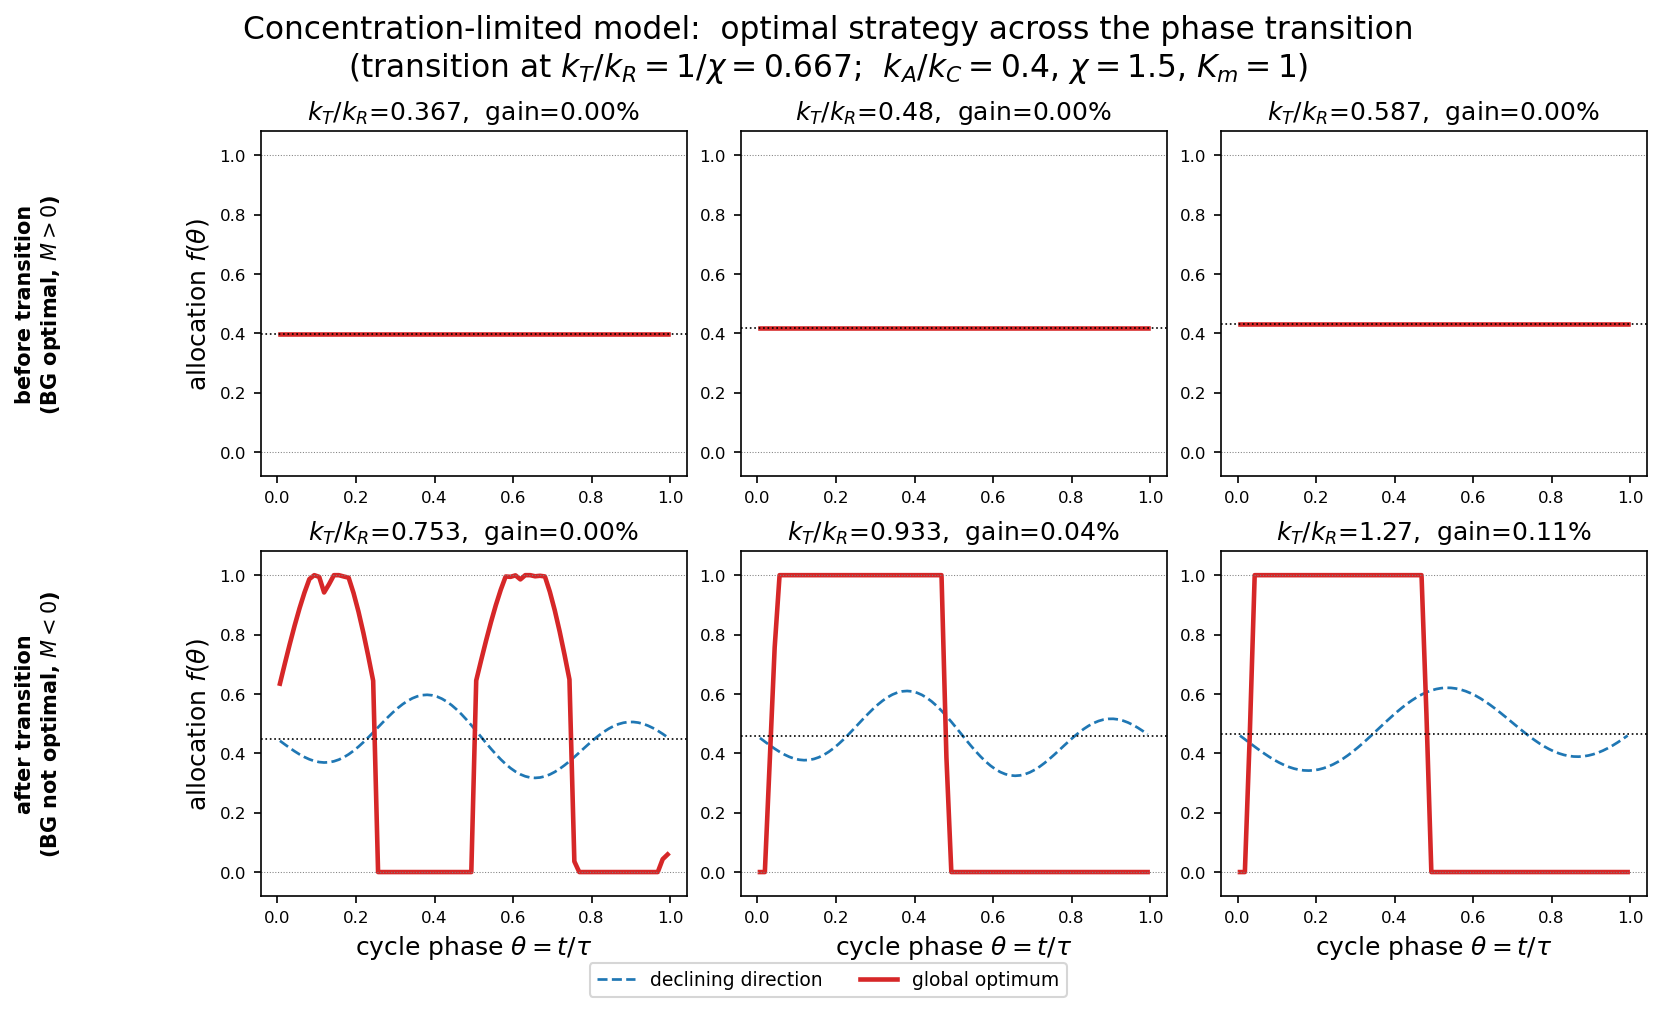
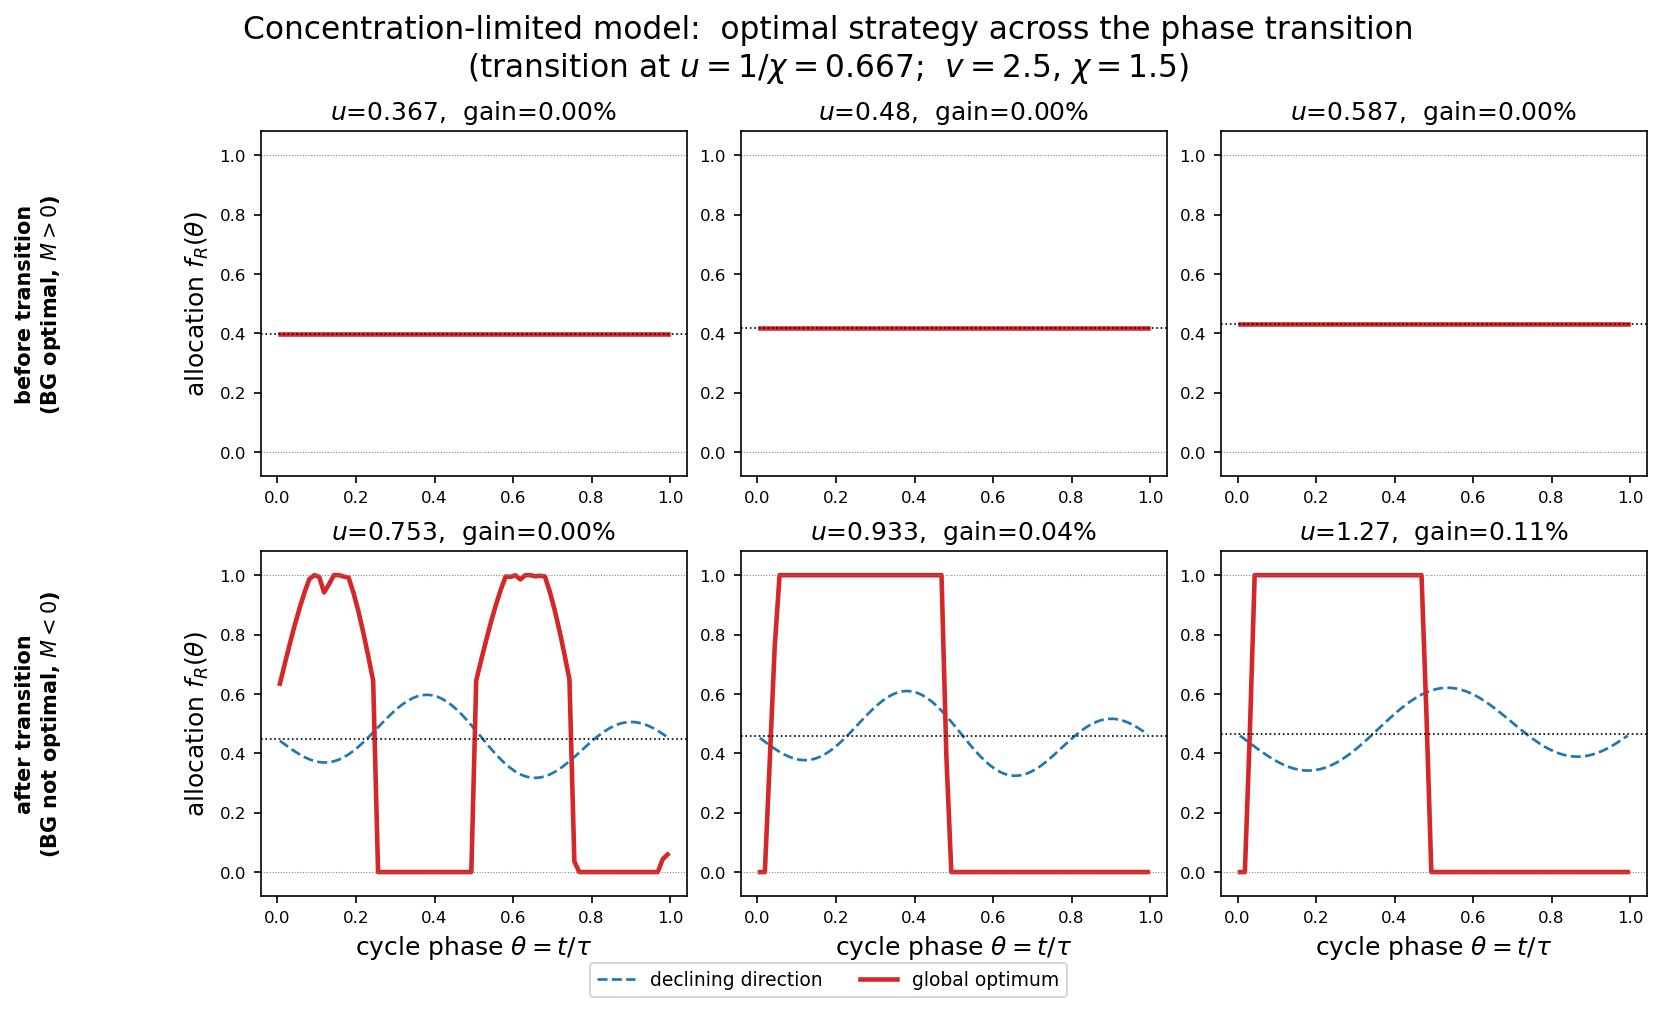
Update thesis code contents

diff --git a/Thesis_code/Scripts/phase_transition_three_models.py b/Thesis_code/Scripts/phase_transition_three_models.py
@@ -12,19 +12,18 @@ q = T/R, z = A/R, u = k_T/k_R, v = k_C/k_A, control f = f_R:
     z' = q - phi(q,z) ( u/v + f z )
     (R'/R) = f phi(q,z)                    (=> doubling rate lambda = f phi)
 
-The three models differ only in the saturation factor phi (chi couples the
-transporter contribution to the effective volume):
+The three models differ only in the saturation factor phi (Sec. 3.4):
 
   * MM      Michaelis-Menten          phi = z / ( z + kappa (1 + chi u q) )
-                transition at  chi u = 1                        (Sec. 3.3)
+                transition at  chi u = 1                       
   * modMM   modified MM coefficient    phi = z / ( z + delta + kappa (1 + chi u q) )
-                transition at  K_m = 1 / (chi u - 1)            (Sec. 3.5.1)
+                transition at  K_m = 1 / (chi u - 1)           
   * conc    concentration limited      phi = z / ( 1 + chi u q )
-                transition at  chi u = 1                        (Sec. 3.5.2)
+                transition at  chi u = 1                        
 
 BG optimality is governed by the reduced second variation
 delta^2 tau[y] = int ( M ydot^2 + N y^2 ) dt.  N > 0 throughout, so BG loses
-optimality exactly where M changes sign -- the phase transition.
+optimality exactly where M changes sign - the phase transition.
 
 For each model the script
   1. fixes  k_A/k_C = 1/v  and  chi  (and, for modMM, k_T/k_R = u), then locates
@@ -33,8 +32,8 @@ For each model the script
         modMM    : sweep K_m           (transition K_m* = 1/(chi u - 1))
   2. picks 3 values before the transition (M>0, BG optimal) and 3 after (M<0);
   3. runs a full piecewise-constant optimal-control search at each value;
-  4. draws a 2x3 grid of the optimal strategy f(theta) -- top row before the
-     transition, bottom row after -- one figure per model.
+  4. draws a 2x3 grid of the optimal strategy f(theta) - top row before the
+     transition, bottom row after - one figure per model.
 
 Run  `python phase_transition_three_models.py probe`  to print only the M-sweep
 tables and located transitions (fast; no optimal-control search).
@@ -62,7 +61,6 @@ def phi_derivs(model, q, z, P):
     """Return (S, Sq, Sz) = (phi, dphi/dq, dphi/dz) for the chosen model.
 
     All three share phi = z / D and differ only in the denominator D.
-    The transporter/ribosome speed ratio enters as  chi*u  multiplying q.
     """
     u, chi, Km, delta = P[IU], P[ICHI], P[IKM], P[IDEL]
     xu = chi * u
@@ -104,7 +102,7 @@ def lam_fun(model, q, z, f, P):
 
 # ============================================================
 # 1. First-order (linearization) coefficients at a BG point
-#    -- exactly the reduced coefficients of Section 3.2.
+#    - exactly the reduced coefficients of Section 3.2.
 # ============================================================
 
 def first_order_coeffs(model, q, z, P):
@@ -656,7 +654,7 @@ def fig_strategies(model, cfg, P, star, records, outdir):
     rows = [before, after]
     row_label = ["before transition\n(BG optimal, $M>0$)",
                  "after transition\n(BG not optimal, $M<0$)"]
-    sweep_sym = r"k_T/k_R" if key == "u" else r"K_m"
+    sweep_sym = r"u" if key == "u" else r"K_m"
 
     for i in range(2):
         for j in range(3):
@@ -685,7 +683,7 @@ def fig_strategies(model, cfg, P, star, records, outdir):
     for ax in axes[-1, :]:
         ax.set_xlabel(r"cycle phase $\theta=t/\tau$", fontsize=12)
     for ax in axes[:, 0]:
-        ax.set_ylabel(r"allocation $f(\theta)$", fontsize=12)
+        ax.set_ylabel(r"allocation $f_R(\theta)$", fontsize=12)
 
     handles, labels = axes[0, 0].get_legend_handles_labels()
     fig.legend(handles, labels, loc="lower center", ncol=2, fontsize=9,
@@ -693,11 +691,13 @@ def fig_strategies(model, cfg, P, star, records, outdir):
 
     kA_kC = 1.0 / P[IV]
     if key == "u":
-        trans = rf"transition at $k_T/k_R=1/\chi={star:.3g}$"
-        fixed = rf"$k_A/k_C={kA_kC:g}$, $\chi={P[ICHI]:g}$, $K_m={P[IKM]:g}$"
+        trans = rf"transition at $u=1/\chi={star:.3g}$"
+        fixed = rf"$v={1/kA_kC:g}$, $\chi={P[ICHI]:g}$"
+        if model != "conc":       # phi of the concentration-limited model has no K_m
+            fixed += rf", $K_m={P[IKM]:g}$"
     else:
         trans = rf"transition at $K_m={star:.3g}$"
-        fixed = rf"$k_A/k_C={kA_kC:g}$, $\chi={P[ICHI]:g}$, $k_T/k_R={P[IU]:g}$"
+        fixed = rf"$v={1/kA_kC:g}$, $\chi={P[ICHI]:g}$, $u={P[IU]:g}$"
     fig.suptitle(f"{cfg['title']}:  optimal strategy across the phase transition\n"
                  f"({trans};  {fixed})", fontsize=15)
 
@@ -717,14 +717,14 @@ V = 2.5
 
 MODELS = {
     "MM": dict(
-        title="Michaelis--Menten model",
+        title="Michaelis-Menten model",
         tag="MM_model",
         sweep="u",                        # transition at u* = 1/chi
         P=(None, V, CHI, 1.0, 0.0),       # u swept; Km=kappa=1
         lo=0.1, hi=6.0,
     ),
     "modMM": dict(
-        title="Modified Michaelis--Menten model",
+        title="Modified Michaelis-Menten model",
         tag="modMM_model",
         sweep="Km",                       # transition K_m = 1/(chi u - 1)
         P=(1.0, V, CHI, None, 1.0),       # u=1 (chi u = 1.5); Km swept; delta=1

diff --git a/Thesis_code/Scripts/qz_space_three_models.py b/Thesis_code/Scripts/qz_space_three_models.py
@@ -206,7 +206,7 @@ def fig_qz_space(model, cfg, P, star, records, outdir):
     rows = [before, after]
     row_label = ["before transition\n(BG optimal, $M>0$)",
                  "after transition\n(BG not optimal, $M<0$)"]
-    sweep_sym = r"k_T/k_R" if key == "u" else r"K_m"
+    sweep_sym = r"u" if key == "u" else r"K_m"
     norm = Normalize(0.0, 1.0)
 
     for i in range(2):
@@ -250,13 +250,14 @@ def fig_qz_space(model, cfg, P, star, records, outdir):
     fig.legend(handles=handles, loc="lower center", ncol=5, fontsize=8.5,
                bbox_to_anchor=(0.5, -0.04))
 
-    kA_kC = 1.0 / P[pt3.IV]
     if key == "u":
-        trans = rf"transition at $k_T/k_R=1/\chi={star:.3g}$"
-        fixed = rf"$k_A/k_C={kA_kC:g}$, $\chi={P[pt3.ICHI]:g}$, $K_m={P[pt3.IKM]:g}$"
+        trans = rf"transition at $u=1/\chi={star:.3g}$"
+        fixed = rf"$v={P[pt3.IV]:g}$, $\chi={P[pt3.ICHI]:g}$"
+        if model != "conc":   # phi of the concentration-limited model has no K_m
+            fixed += rf", $K_m={P[pt3.IKM]:g}$"
     else:
         trans = rf"transition at $K_m={star:.3g}$"
-        fixed = rf"$k_A/k_C={kA_kC:g}$, $\chi={P[pt3.ICHI]:g}$, $k_T/k_R={P[pt3.IU]:g}$"
+        fixed = rf"$v={P[pt3.IV]:g}$, $\chi={P[pt3.ICHI]:g}$, $u={P[pt3.IU]:g}$"
     fig.suptitle(f"{cfg['title']}:  optimal dynamics in the $(q,z)$ plane\n"
                  f"({trans};  {fixed})", fontsize=12)
 
